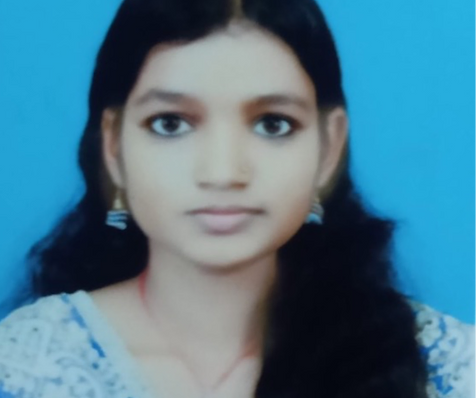
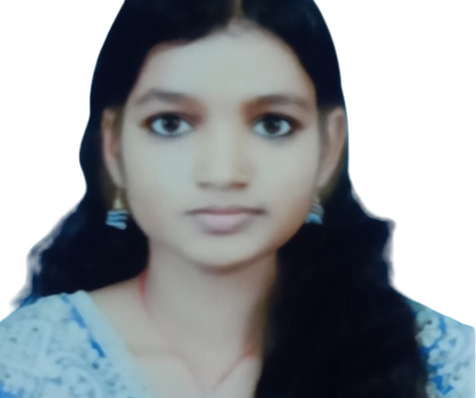
added new volunteers images

diff --git a/about_us.html b/about_us.html
@@ -516,10 +516,9 @@
                         <div class="team_area_three_content">
                             <h3>Dunbahadur Das</h3>
                             <h5>Managing Director</h5>
-                            <p>retired teacher and current practitioner in the Civil Court, he
-                                has dedicated his life serving the society, in 2005, he was honoured with a
-                                National Award by the esteemed President of India, Dr. A.P.J. Abdul Kalam, for his
-                                contributions to the field of education.</p>
+                            <p style="padding-bottom: 25px;">A retired teacher, now a Civil Court practitioner. Lifelong dedication to serving
+                                society. He was honored with the National Award by President A.P.J. Abdul Kalam for his
+                                educational contributions in 2005.</p>
                         </div>
                     </div>
                 </div>
@@ -537,10 +536,10 @@
                         <div class="team_area_three_content">
                             <h3>Robin Smith</h3>
                             <h5>Co Managing Director</h5>
-                            <p style="padding-bottom: 25px;">MBA graduate in Marketing and
-                                B.Tech in CSE with over 13 years of
-                                extensive experience spanning various sectors within the corporate realm, He is deeply
-                                committed to the cause of social service, particularly in the realm of education</p>
+                            <p >An MBA graduate in Marketing and B.Tech in CSE with over 13
+                                years of extensive experience spanning various sectors within the corporate realm. He is
+                                deeply committed to the cause of social service, particularly in the domain of
+                                education.</p>
                         </div>
                     </div>
                 </div>
@@ -581,7 +580,7 @@
                 <div class="col-lg-3 col-md-6 col-sm-12 col-12">
                     <div class="team_area_three">
                         <div class="team_area_three_img">
-                            <img src="assets/img/team/pooja.jpg" alt="img">
+                            <img src="assets/img/team/pooja.png" alt="img">
                             <ul>
                                 <li><a href="%21.html#"><i class="fab fa-twitter"></i></a></li>
 
@@ -619,7 +618,7 @@
                 <div class="col-lg-3 col-md-6 col-sm-12 col-12">
                     <div class="team_area_three">
                         <div class="team_area_three_img">
-                            <img src="assets/img/team/premlatha.jpg" alt="img">
+                            <img src="assets/img/team/premlatha.png" alt="img">
                             <ul>
                                 <li><a href="%21.html#"><i class="fab fa-twitter"></i></a></li>
 
@@ -640,7 +639,7 @@
                 <div style="padding-top: 50px;" class="col-lg-3 col-md-6 col-sm-12 col-12">
                     <div class="team_area_three">
                         <div class="team_area_three_img">
-                            <img src="assets/img/team/ranjit.jpg" alt="img">
+                            <img src="assets/img/team/Manjeet.jpg" alt="img">
                             <ul>
                                 <li><a href="%21.html#"><i class="fab fa-twitter"></i></a></li>
 
@@ -648,10 +647,10 @@
                             </ul>
                         </div>
                         <div class="team_area_three_content">
-                            <h3>Premlatha Kumari</h3>
-                            <p style="padding-bottom: 0px;">Studied until intermediate. Ranjit Sada is doing a
-                                commendable job by dedicating his time and efforts to teaching underprivileged children
-                                at Sevadeep.</p>
+                            <h3>Manjeet Kumar</h3>
+                            <p style="padding-bottom: 0px;">Studied till intermediate, currently continuing studies.
+                                Manjeet Kumar is doing a commendable job by dedicating his time and efforts to teaching
+                                underprivileged children at Sevadeep.</p>
                         </div>
                     </div>
                 </div>
@@ -778,7 +777,7 @@
                             </li>
                             <li><i class="fas fa-circle"></i>
                                 <h3 style="display: inline;color: #272222;">Measuring Impact: </h3>
-                                
+
                                 <br> We are committed to monitoring and evaluating the impact of our coaching centres to
                                 ensure continuous improvement and accountability. Through regular assessments and data
                                 analysis, we strive to adapt our programs and strategies to meet the evolving needs of
@@ -918,7 +917,7 @@
 
 
     <!-- Blog Area -->
-    <section style="padding-top: 30px;" id="home_blog_area" class="section_after bg-color">
+    <section id="home_blog_area" class="section_after bg-color">
         <div class="container">
             <div class="row">
                 <div class="col-lg-6 offset-lg-3 col-md-12 col-sm-12 col-12">
@@ -934,16 +933,20 @@
                 <div class="col-lg-4">
                     <div class="blog_card_wrapper">
                         <div class="blog_card_img">
-                            <a href="#"><img src="assets/img/news/news1.jpg" alt="img"></a>
+                            <a href="blogs/first_education_center.html"><img src="assets/img/news/news1.jpg"
+                                    alt="img"></a>
                         </div>
                         <div class="blog_card_text">
                             <div class="blog_card_tags">
 
                             </div>
                             <div class="blog_card_heading">
-                                <h3><a href="#">Seva Deep Foundation Inaugurates First Educational Center, Fostering
+                                <h3><a href="blogs/first_education_center.html">Seva Deep Foundation Inaugurates First
+                                        Educational Center, Fostering
                                         Hope for the Future</a></h3>
-                                <p>Gogri: On Wednesday, Seva Deep opened their first-ever free education center to help underprivileged poor students receive the fruits of education in Shradda Nagar....</p>
+                                <p>Gogri: On Wednesday, Seva Deep opened their first-ever free education center to help
+                                    underprivileged poor students receive the fruits of education in Shradda Nagar....
+                                </p>
                             </div>
                             <div class="blog_boxed_bottom_wrapper">
                                 <div class="row">
@@ -978,18 +981,20 @@
                 <div class="col-lg-4">
                     <div class="blog_card_wrapper">
                         <div class="blog_card_img">
-                            <a href="#"><img style="height: 380px;" src="assets/img/news/news2.jpg" alt="img"></a>
+                            <a href="blogs/third_education_center.html"><img style="height: 380px;"
+                                    src="assets/img/news/news2.jpg" alt="img"></a>
                         </div>
                         <div class="blog_card_text">
                             <div class="blog_card_tags">
 
                             </div>
                             <div class="blog_card_heading">
-                                <h3><a href="#">Seva Deep Foundation Inaugurates Third Free Education Center.
+                                <h3><a href="blogs/third_education_center.html">Seva Deep Foundation Inaugurates Third
+                                        Free Education Center.
                                     </a></h3>
-                                <p>Gorgi - In a significant stride towards providing education for underprivileged
+                                <p>Gogri: In a significant stride towards providing education for underprivileged
                                     children, Seva Deep Foundation proudly inaugurated its third free education center
-                                    in the Gogri Municipal Council area...</p>
+                                    in the Gogri Municipal Council area....</p>
                             </div>
                             <div class="blog_boxed_bottom_wrapper">
                                 <div class="row">
@@ -1023,18 +1028,20 @@
                 <div class="col-lg-4">
                     <div class="blog_card_wrapper">
                         <div class="blog_card_img">
-                            <a href="#"><img src="assets/img/news/news3.jpg" alt="img"></a>
+                            <a href="blogs/free_education_center.html"><img src="assets/img/news/news3.jpg"
+                                    alt="img"></a>
                         </div>
                         <div class="blog_card_text">
                             <div class="blog_card_tags">
 
                             </div>
                             <div class="blog_card_heading">
-                                <h3><a href="#">Sevadeep Foundation Inaugurates Free Educational Center, A Ray of Hope
+                                <h3><a href="blogs/free_education_center.html">Sevadeep Foundation Inaugurates Free
+                                        Educational Center, A Ray of Hope
                                         for Underprivileged Children.</a></h3>
-                                <p style="padding-bottom: 100px;">In a remarkable and heartening move, Sevadeep
-                                    Foundation took a significant step forward on Wednesday by inaugurating a free
-                                    education centre for the underprivileged children in the Sharda Nagar area...</p>
+                                <p style="padding-bottom: 100px;">Sharda Nagar: In a remarkable and heartening move,
+                                    Sevadeep Foundation took a significant step forward on Wednesday by inaugurating a
+                                    free education center for underprivileged children in the Sharda Nagar area....</p>
                             </div>
                             <div class="blog_boxed_bottom_wrapper">
                                 <div class="row">
@@ -1069,7 +1076,6 @@
             </div>
         </div>
     </section>
-
 
 
     <!-- subscribe -->
